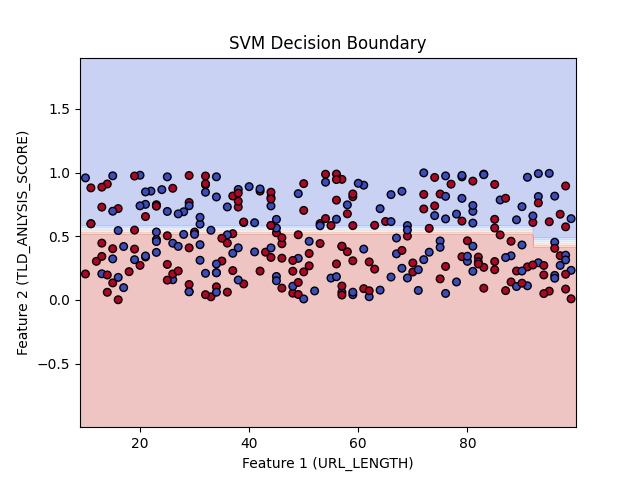
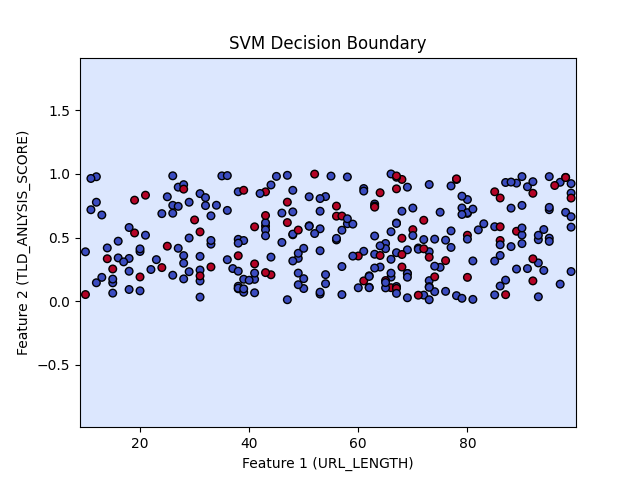
Updated the model to positively skew data for model demo1

diff --git a/surf_shelter_training_pkg_v0/build/lib/model_trainer_v0/train_model.py b/surf_shelter_training_pkg_v0/build/lib/model_trainer_v0/train_model.py
@@ -113,7 +113,7 @@ def generate_data_from_common_crawl(num_samples=1000):
             'time_to_live': np.random.randint(1, 3600),
             'domain_age': np.random.randint(1, 5000),
             'reputation_score': np.random.random(),
-            'is_malicious': np.random.choice([True, False]),
+            'is_malicious': np.random.choice([False, True], p=[0.8, 0.2]),
             'is_click_fraud': np.random.choice([True, False]),
             'is_pay_fraud': np.random.choice([True, False])
         }

diff --git a/surf_shelter_training_pkg_v0/model_trainer_v0/train_model.py b/surf_shelter_training_pkg_v0/model_trainer_v0/train_model.py
@@ -113,7 +113,7 @@ def generate_data_from_common_crawl(num_samples=1000):
             'time_to_live': np.random.randint(1, 3600),
             'domain_age': np.random.randint(1, 5000),
             'reputation_score': np.random.random(),
-            'is_malicious': np.random.choice([True, False]),
+            'is_malicious': np.random.choice([False, True], p=[0.8, 0.2]),
             'is_click_fraud': np.random.choice([True, False]),
             'is_pay_fraud': np.random.choice([True, False])
         }
